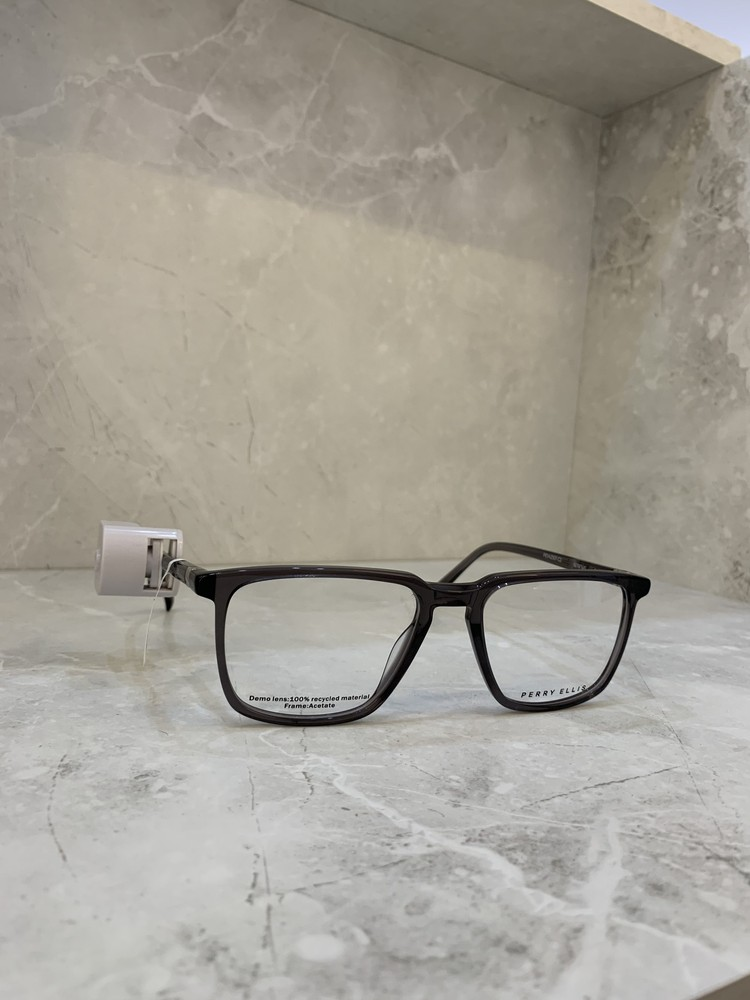
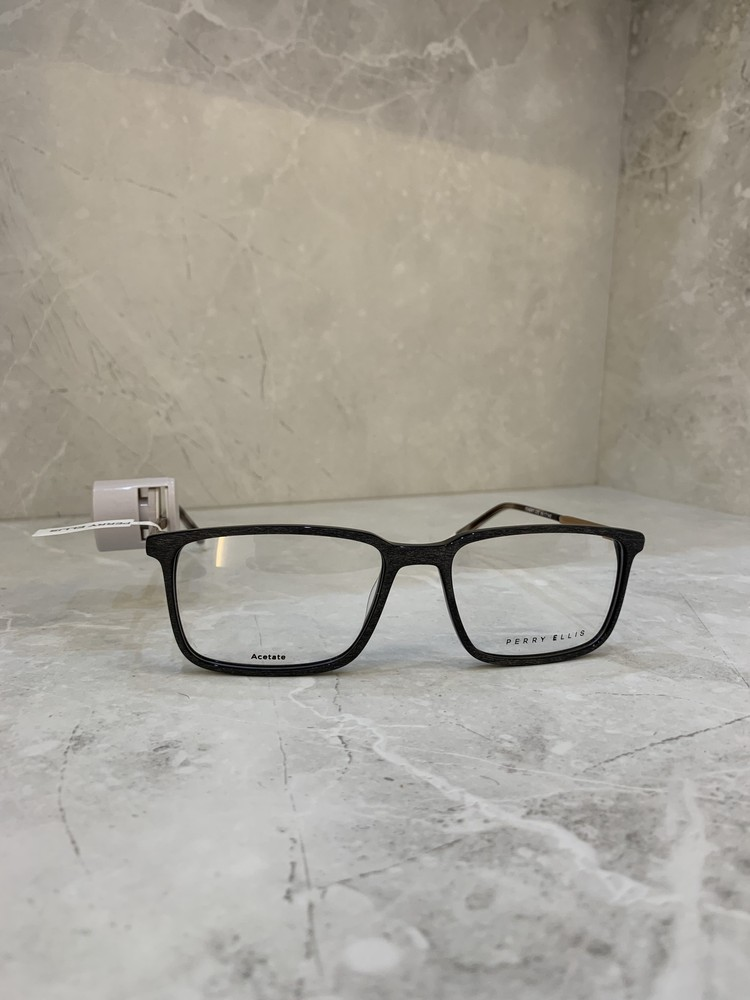
Corregir cadena de fotos cruzadas PEV42411-C02/C03 y PEV42501-C02
Confirmado via el codigo grabado en cada varilla (visible al hacer
zoom en la foto): la carpeta 354/355 es en realidad PEV42411-C03
(gris amaderado, no C02), y la carpeta 356/357 es en realidad
PEV42501-C02 (rectangular oscura), no amaderado.

- PEV42411-C03: ahora usa 354/355 (grabado "PEV42411 C03")
- PEV42501-C02: ahora usa 356/357 (grabado "PEV42501 C2")
- PEV42411-C02 ("negro amaderado"): se queda sin foto real por ahora,
  ninguno de los archivos disponibles corresponde a esta referencia

diff --git a/monturas.html b/monturas.html
@@ -1150,12 +1150,12 @@
       <a href="https://wa.me/573217587259?text=Hola%20MENVI%2C%20quiero%20consultar%20disponibilidad%20de%20la%20montura%20Perry%20Ellis%20PEV42411%20-%20Rectangular%20gris%20amaderado" class="mo-card-cta" target="_blank" rel="noopener">Consultar disponibilidad</a>
     </div>
   </div>
-  <div class="mo-card" data-gallery='[&quot;mont-perryellis-pev42411-c02.jpg&quot;,&quot;mont-perryellis-pev42411-c02-2.jpg&quot;]'>
+  <div class="mo-card" data-gallery='[]'>
     <div class="mo-card-img">
       <span class="mo-card-brand">Perry Ellis</span>
       <span class="mo-card-gender">Hombre</span>
-      <img src="imgs2/mont-perryellis-pev42411-c02.jpg" alt="Perry Ellis, Rectangular negro amaderado" loading="lazy" style="object-fit: cover; object-position: center 82%;" />
-      <span class="mo-card-angles">2 fotos</span>
+      <div class="mo-card-noimg">Foto próximamente</div>
+      
     </div>
     <div class="mo-card-body">
       <div class="mo-card-line">Ref. PEV42411 · Color C02</div>
